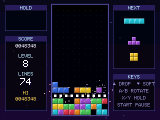
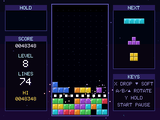
Blockfall: stick/D-pad up rotates instead of hard-dropping
A small upward nudge on the stick slammed the piece to the floor. Up
now rotates clockwise (like A), hard drop moves to X (or R2), and hold
stays on Y, L1 and R1. The in-game key panel, title screen, web page
tags, simulator script and screenshots follow.

Claude-Session: https://claude.ai/code/session_0152ymMnLJ59268Fu4qk1EfL

diff --git a/web/index.html b/web/index.html
@@ -201,7 +201,7 @@
         <div>
           <h3>BLOCKFALL</h3>
           <p>Falling-blocks puzzler with hold, ghost piece, 3-piece preview and proper wall kicks. The music speeds up when the stack gets high.</p>
-          <div class="tags"><span class="tag">A/B rotate</span><span class="tag">&uarr; hard drop</span><span class="tag">Puzzle</span></div>
+          <div class="tags"><span class="tag">A/B/&uarr; rotate</span><span class="tag">X hard drop</span><span class="tag">Puzzle</span></div>
         </div>
       </div>
       <div class="card game">

diff --git a/games/Blockfall/game.h b/games/Blockfall/game.h
@@ -322,7 +322,7 @@ static void updateFx() {
 static void updatePlay(const Pad& in) {
   if (in.hit(BTN_START)) { arcade::pause(); return; }
   // hold
-  if (in.hit(BTN_X | BTN_Y | BTN_L1 | BTN_R1) && !holdUsed) {
+  if (in.hit(BTN_Y | BTN_L1 | BTN_R1) && !holdUsed) {
     int t = cur.type;
     if (hold < 0) { hold = t; nextPiece(); }
     else { int h = hold; hold = t; spawn(h); }
@@ -330,11 +330,12 @@ static void updatePlay(const Pad& in) {
     audio::play(SFX_BLIP);
     return;
   }
-  if (in.hit(BTN_A)) rotate(+1);
+  // Up rotates too: a nudge on the stick must never slam the piece down
+  if (in.hit(BTN_A | BTN_UP)) rotate(+1);
   if (in.hit(BTN_B)) rotate(-1);
   if (repL.tick(in.down(BTN_LEFT), 10, 2) && tryMove(-1, 0)) { audio::play(SFX_MOVE); touchedGround(); }
   if (repR.tick(in.down(BTN_RIGHT), 10, 2) && tryMove(1, 0)) { audio::play(SFX_MOVE); touchedGround(); }
-  if (in.hit(BTN_UP)) {   // hard drop
+  if (in.hit(BTN_X | BTN_R2)) {   // hard drop
     int d = 0;
     int x0 = cur.x;
     while (tryMove(0, 1)) d++;
@@ -503,9 +504,9 @@ static void drawPanels() {
   drawPieceMini(queue[1], 268, 82, false);
   drawPieceMini(queue[2], 268, 114, false);
   box(226, 148, 84, 74, "KEYS");
-  text("\x1e DROP  \x1f SOFT", 268, 164, c565(150, 140, 200), 1, top_center, false);
-  text("A/B ROTATE", 268, 178, c565(150, 140, 200), 1, top_center, false);
-  text("X/Y HOLD", 268, 192, c565(150, 140, 200), 1, top_center, false);
+  text("X DROP \x1f SOFT", 268, 164, c565(150, 140, 200), 1, top_center, false);
+  text("A/B/\x1e ROTATE", 268, 178, c565(150, 140, 200), 1, top_center, false);
+  text("Y HOLD", 268, 192, c565(150, 140, 200), 1, top_center, false);
   text("START PAUSE", 268, 206, c565(150, 140, 200), 1, top_center, false);
 }
 
@@ -536,8 +537,8 @@ static void draw() {
     else text("PAIR CONTROLLER: HOLD Y + STADIA", SW / 2, 130, c565(255, 138, 61), 1, top_center);
     textf(SW / 2, 22, c565(255, 216, 74), 1, top_center, "HI-SCORE %07lu", (unsigned long)hiscore);
     arcade::drawDifficulty(152);
-    text("\x11\x10 MOVE  \x1e DROP  \x1f SOFT DROP", SW / 2, 176, c565(180, 194, 220), 1, top_center);
-    text("A/B ROTATE   X/Y HOLD   START PAUSE", SW / 2, 190, c565(180, 194, 220), 1, top_center);
+    text("\x11\x10 MOVE   X DROP   \x1f SOFT DROP", SW / 2, 176, c565(180, 194, 220), 1, top_center);
+    text("A/B/\x1e ROTATE   Y HOLD   START PAUSE", SW / 2, 190, c565(180, 194, 220), 1, top_center);
     text("SELECT+START: BACK TO MENU", SW / 2, 210, c565(115, 132, 168), 1, top_center);
     return;
   }

diff --git a/tools/sim/sim_blockfall.cpp b/tools/sim/sim_blockfall.cpp
@@ -29,7 +29,7 @@ int main() {
   simStep(step, 0, 0, BTN_START);
   int pieces = 0;
   for (int f = 0; f < 6000 && state != ST_OVER; f++) {
-    if (state == ST_PLAY && cur.y <= HIDDEN && (f % 2 == 0)) { aiPlace(); simStep(step, 0, 0, BTN_UP); pieces++; }
+    if (state == ST_PLAY && cur.y <= HIDDEN && (f % 2 == 0)) { aiPlace(); simStep(step, 0, 0, BTN_X); pieces++; }
     else simStep(step);
     if (f == 1500) simShot(draw, "out/bf_play.ppm");
     if (state == ST_CLEAR && nClear >= 2 && clearT == 4) simShot(draw, "out/bf_clear.ppm");
